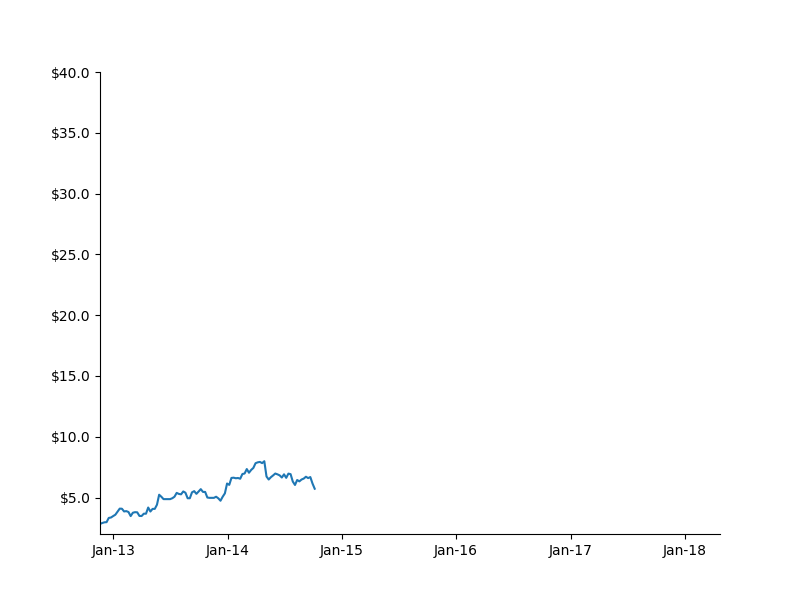
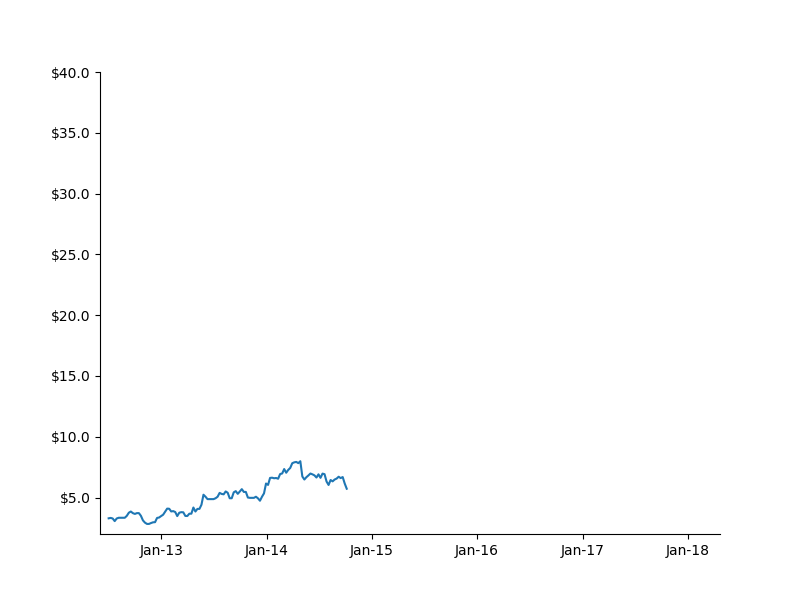
there weren't truly the last details

diff --git a/graph3.4.py b/graph3.4.py
@@ -8,7 +8,7 @@ import matplotlib.dates as mdates
 import matplotlib.animation as animation
 from datetime import datetime, timedelta
 
-df = pd.read_csv('data4.csv', ';')
+df = pd.read_csv('data3.csv', ';')
 df.Date = pd.to_datetime(df.Date, dayfirst=True)
 
 df.reset_index(drop=True, inplace=True)
@@ -16,14 +16,14 @@ df.set_index("Date", inplace=True)
 
 fig1 = plt.figure(figsize=(8, 6))
 ax1 = fig1.add_subplot(111)
-ax1.plot(df)
+ax1.plot(df, 'r')
 
 fmt = '${x:,.1f}'  # formato se borra
 tick = mtick.StrMethodFormatter(fmt)
 ax1.yaxis.set_major_formatter(tick)
 
-ax1.set_ylim(2, 40)
-ax1.set_xlim(min(df.index) - timedelta(days=30) , max(df.index))
+ax1.set_ylim(2.7, 11)
+ax1.set_xlim(min(df.index)-timedelta(days=30), max(df.index))
 
 monthyearFmt = mdates.DateFormatter('%b-%y')
 ax1.xaxis.set_major_formatter(monthyearFmt)
@@ -31,8 +31,5 @@ ax1.xaxis.set_major_formatter(monthyearFmt)
 ax1.spines['top'].set_visible(False)
 ax1.spines['right'].set_visible(False)
 
-fig1.savefig('graph4_end.png')
+fig1.savefig('graph3_end_2.png')
 fig1.show()
-
-
-

diff --git a/graph4.0.2.py b/graph4.0.2.py
@@ -14,16 +14,20 @@ df.Date = pd.to_datetime(df.Date, dayfirst=True)
 df.reset_index(drop=True, inplace=True)
 df.set_index("Date", inplace=True)
 
+supDate = max(df.index)
+lowDate = min(df.index)
+df = df[:119]
+
 fig1 = plt.figure(figsize=(8, 6))
 ax1 = fig1.add_subplot(111)
-ax1.plot(df)
+ax1.plot(df, 'r')
 
 fmt = '${x:,.1f}'  # formato se borra
 tick = mtick.StrMethodFormatter(fmt)
 ax1.yaxis.set_major_formatter(tick)
 
 ax1.set_ylim(2, 40)
-ax1.set_xlim(min(df.index) - timedelta(days=30) , max(df.index))
+ax1.set_xlim(lowDate - timedelta(days=30), supDate)
 
 monthyearFmt = mdates.DateFormatter('%b-%y')
 ax1.xaxis.set_major_formatter(monthyearFmt)
@@ -31,8 +35,5 @@ ax1.xaxis.set_major_formatter(monthyearFmt)
 ax1.spines['top'].set_visible(False)
 ax1.spines['right'].set_visible(False)
 
-fig1.savefig('graph4_end.png')
+fig1.savefig('graph4_base_2.png')
 fig1.show()
-
-
-

diff --git a/graph4.0.py b/graph4.0.py
@@ -6,7 +6,7 @@ import matplotlib.pyplot as plt
 import matplotlib.ticker as mtick
 import matplotlib.dates as mdates
 import matplotlib.animation as animation
-from datetime import datetime
+from datetime import datetime, timedelta
 
 df = pd.read_csv('data4.csv', ';')
 df.Date = pd.to_datetime(df.Date, dayfirst=True)
@@ -16,7 +16,7 @@ df.set_index("Date", inplace=True)
 
 supDate = max(df.index)
 lowDate = min(df.index)
-df = df[:99]
+df = df[:119]
 
 fig1 = plt.figure(figsize=(8, 6))
 ax1 = fig1.add_subplot(111)
@@ -27,7 +27,7 @@ tick = mtick.StrMethodFormatter(fmt)
 ax1.yaxis.set_major_formatter(tick)
 
 ax1.set_ylim(2, 40)
-ax1.set_xlim(lowDate, supDate)
+ax1.set_xlim(lowDate - timedelta(days=30), supDate)
 
 monthyearFmt = mdates.DateFormatter('%b-%y')
 ax1.xaxis.set_major_formatter(monthyearFmt)
